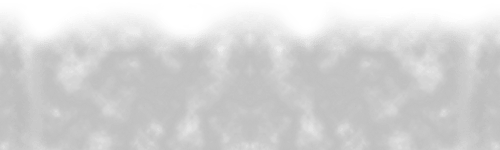
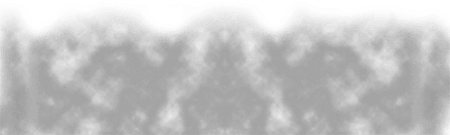
Makes fog images smoother

diff --git a/src/ui/components/FogBackground/stylesheet.css b/src/ui/components/FogBackground/stylesheet.css
@@ -8,7 +8,7 @@
   top: 0;
   right: 0;
   left: 0;
-  filter: blur(1px) grayscale(0.2) saturate(1.2) sepia(0.2);
+  filter: blur(2px) grayscale(0.2) saturate(1.2) sepia(0.2);
   z-index: -1;
   overflow: hidden;
   background: linear-gradient(map-get($clear-sky, start), map-get($clear-sky, end) 100vH, map-get($clear-sky, end));
